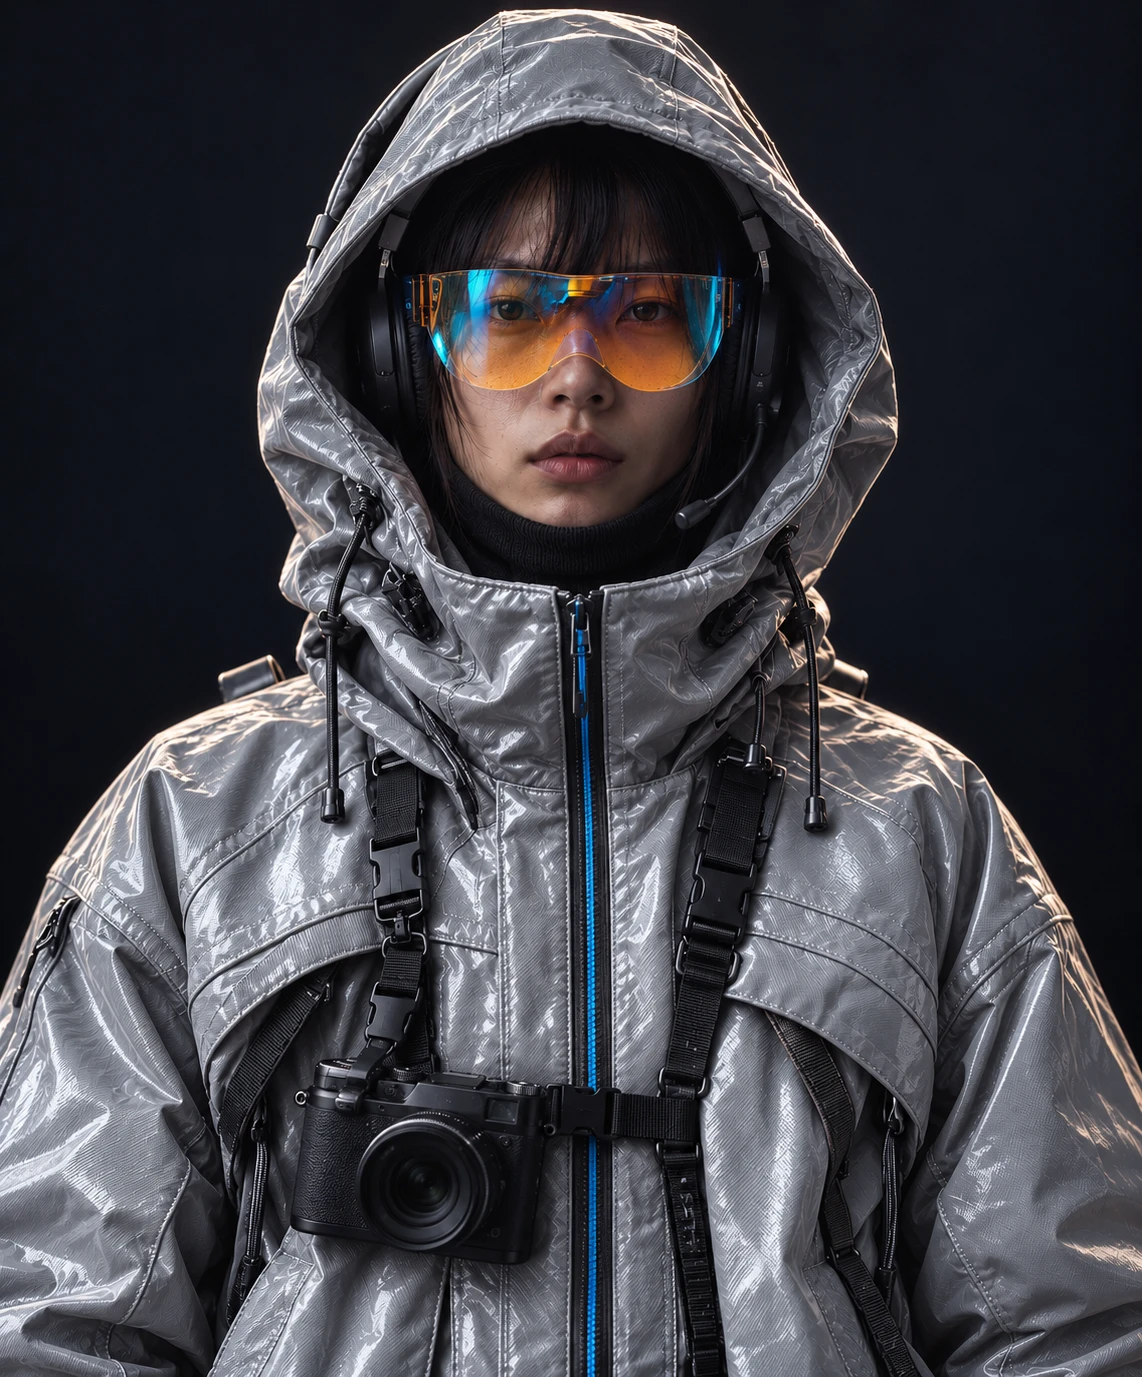
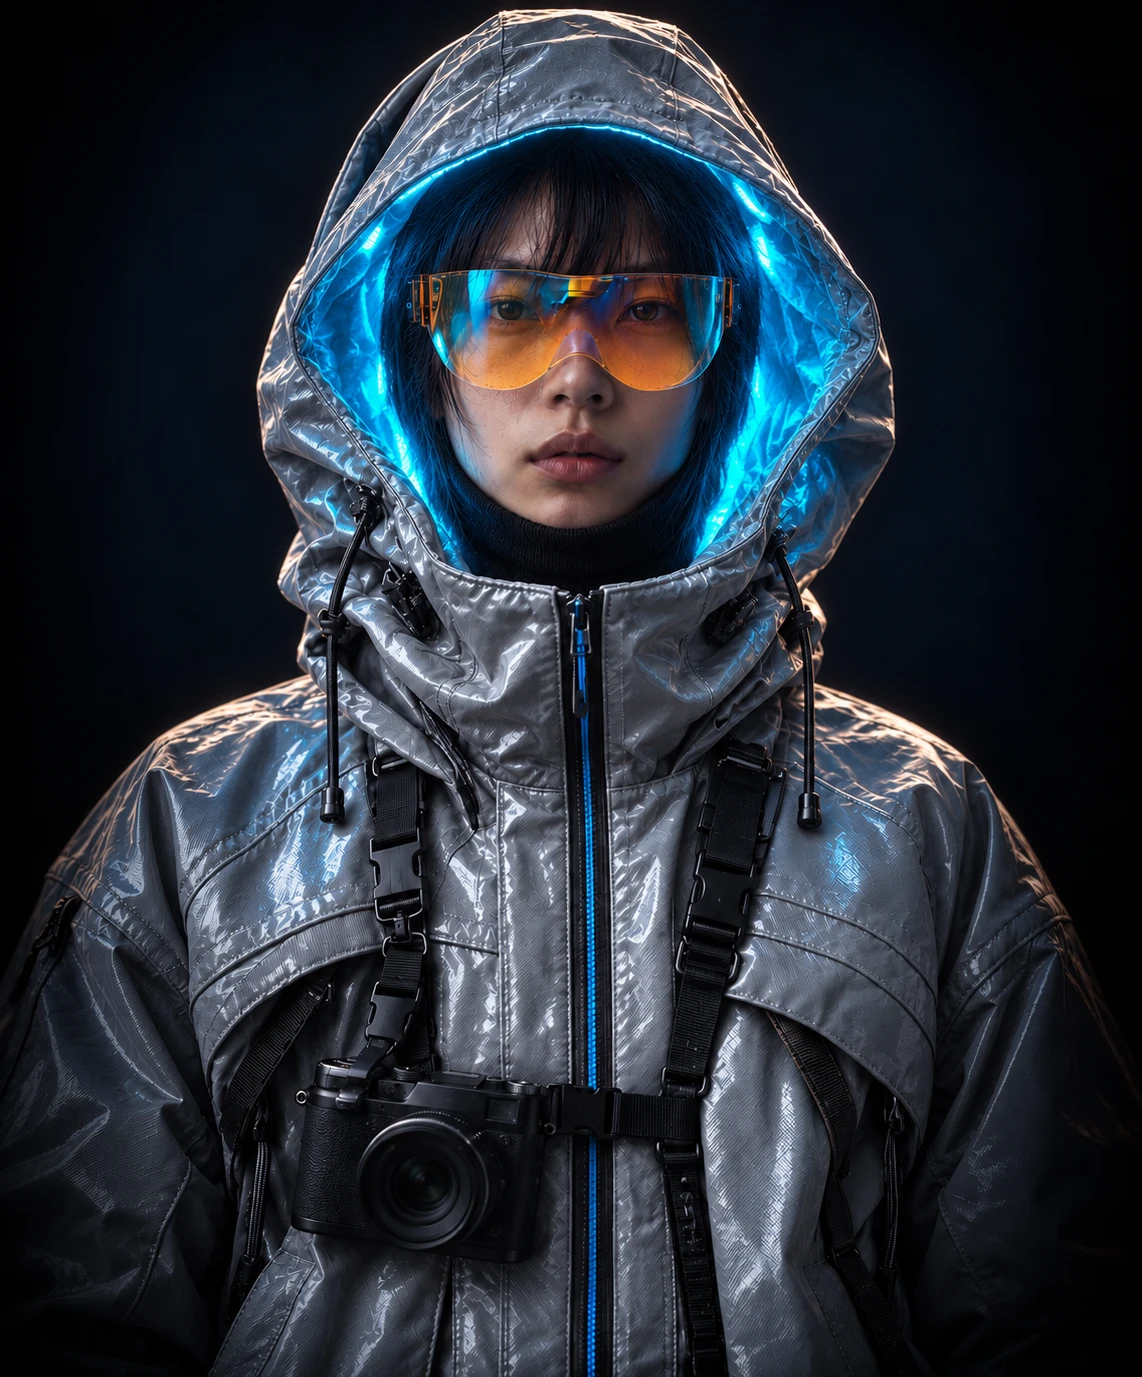
페르소나 사진 교체와 배경색을 더 어둡게 변경
- portrait.webp: 사용자가 준 새 버전(후드 안쪽 파란 글로우, 검정 배경)으로 교체. 홈 히어로·About 공용
- 배경 토큰을 남색 기가 도는 #15151c에서 무채색에 가까운 #0b0b0d로, surface·raise·line·dim도 함께 낮춤
- 히어로 3D 배경 패널 글로우를 무채색으로, 사진 블렌딩 색(uBg)은 CSS --bg를 읽도록 해 토큰과 맞춤
- theme-color, AGENTS.md 갱신

Claude-Session: https://claude.ai/code/session_011BjYSQjeAVnjnST8EMR3HN

diff --git a/src/scripts/hero-scene.ts b/src/scripts/hero-scene.ts
@@ -206,14 +206,14 @@ export async function mountHero(root: HTMLElement, src: string) {
   const camera = new THREE.PerspectiveCamera(35, 1, 0.1, 100);
   camera.position.set(0, 0, 8.5);
 
-  // 배경 그라데이션 패널
+  // 배경 그라데이션 패널: 바깥은 --bg(#0b0b0d)와 같은 값, 가운데만 살짝 밝은 무채색 글로우
   const back = new THREE.Mesh(
     new THREE.PlaneGeometry(40, 40),
     new THREE.ShaderMaterial({
       vertexShader: vertex,
       fragmentShader: `varying vec2 vUv; void main(){
         float d = distance(vUv, vec2(0.42, 0.47));
-        vec3 c = mix(vec3(0.12,0.12,0.19), vec3(0.082,0.082,0.11), smoothstep(0.0, 0.14, d));
+        vec3 c = mix(vec3(0.075,0.075,0.085), vec3(0.043,0.043,0.051), smoothstep(0.0, 0.14, d));
         gl_FragColor = vec4(c, 1.0); }`,
     }),
   );
@@ -231,7 +231,8 @@ export async function mountHero(root: HTMLElement, src: string) {
     uPrev: { value: BLANK },
     uSweep: { value: reduced ? 1 : 0 },
     uFade: { value: 1 },
-    uBg: { value: new THREE.Color(0x15151c) },
+    // 사진 배경을 사이트 배경(--bg)에 녹임
+    uBg: { value: new THREE.Color(getComputedStyle(document.documentElement).getPropertyValue('--bg').trim() || '#0b0b0d') },
   };
   const persona = new THREE.Group();
   const photo = new THREE.Mesh(

diff --git a/src/styles/global.css b/src/styles/global.css
@@ -1,12 +1,12 @@
 /* 다크 고정 · HUD 톤 (레퍼런스: chronothreads.webflow.io) */
 :root {
-  --bg: #15151c;
-  --surface: #1c1c25;
-  --raise: #23232e;
+  --bg: #0b0b0d;
+  --surface: #131316;
+  --raise: #1a1a1e;
   --fg: #f0ebe5;
   --muted: #8d8992;
-  --dim: #575558;
-  --line: #2c2c37;
+  --dim: #55545a;
+  --line: #242429;
   --accent: #2895f7;
   --max: 1200px;
   --narrow: 720px;

diff --git a/AGENTS.md b/AGENTS.md
@@ -28,7 +28,7 @@
   - 성별 드러나는 요소는 깊은 후드, 눈썹 덮는 앞머리, 넥 게이터·하이넥, 후드 위 헤드셋으로 가림. 20대 후반 성숙한 인상, 네온 최소
   - 요소: 차콜 테크웨어 후디(지퍼에 얇은 블루 라인), 헤드셋+마이크, 가슴 스트랩 미러리스 카메라, (사이트에서) 홀로그램 UI 패널
   - 이미지는 **사용자가 직접 생성해서 업로드** (Midjourney 등). 3D 변환용은 정면 A포즈·단색 배경·전신, 가능하면 측면·후면도
-  - ✅ 1차 확정 이미지: `src/assets/persona/portrait.webp` (상반신, 1142×1377, 은색 후디·오렌지 바이저·헤드셋·카메라). 3D 모델은 아직 없음 → 사진을 셰이더 평면으로 사용 중
+  - ✅ 확정 이미지: `src/assets/persona/portrait.webp` (상반신, 1142×1377, 은색 후디·오렌지 바이저·후드 안쪽 파란 글로우·카메라, 검정 배경). 2026-10-22 사용자가 준 새 버전으로 교체 (홈 히어로·About 공용). 3D 모델은 아직 없음 → 사진을 셰이더 평면으로 사용 중
   - 홀로그램 패널은 사진에 포함하지 않고 Three.js 캔버스로 따로 그려 페르소나 왼쪽 앞에 띄움
   - 실사 프롬프트 핵심(재생성 시 참고): `ultra photorealistic studio portrait photograph of an androgynous adult person in their late 20s, gender-ambiguous face, neutral calm expression, looking directly into the camera, perfectly frontal symmetrical pose, oversized techwear hoodie with the hood up, long bangs covering the eyebrows, neck gaiter up to the jawline, over-ear headset over the hood, mirrorless camera on a chest strap, real skin texture with visible pores, Hasselblad 90mm, dark #15151c backdrop` / 네거티브: `cartoon, anime, 3d render, cgi, doll, toy, plastic skin, childish, teenager, heavy neon, overtly masculine or feminine features`
 - 사용자가 정한 글 구분 원칙: **글은 항목별로, 형식은 '케이스 스터디' 또는 '노트(아카이브)'로 구분해서 적절히 배치.**
@@ -120,7 +120,8 @@ src/
 방향: **다크 고정 · HUD · 3D 히어로** (chronothreads) + **리스트형 목록** (huddling).
 
 - 토큰 (`src/styles/global.css` `:root`, 다크만 있음)
-  - `--bg #15151c` `--surface #1c1c25` `--raise #23232e` `--fg #f0ebe5` `--muted #8d8992` `--dim #575558` `--line #2c2c37` `--accent #2895f7`
+  - `--bg #0b0b0d` `--surface #131316` `--raise #1a1a1e` `--fg #f0ebe5` `--muted #8d8992` `--dim #55545a` `--line #242429` `--accent #2895f7`
+  - (2026-10-22) 배경을 남색 기가 도는 `#15151c`에서 무채색에 가까운 `#0b0b0d`로 더 어둡게 바꿈. 히어로 3D 배경 패널(`hero-scene.ts` back 셰이더)과 사진 블렌딩 `uBg`(CSS `--bg`를 읽음), `theme-color`도 함께 맞춤
   - 폰트: `--font` Pretendard / `--mono` JetBrains Mono / `--pixel` Silkscreen. HUD 라벨은 `.mono` (대문자 12px)
   - 레이아웃: `--max 1200px`, `--narrow 720px`, `--radius 4px`, `--gutter clamp(16px,4vw,40px)`, `--header 60px`
   - 항목 색: 요소에 `style="--h: <hue>"` → 배지 배경 `oklch(26% 0.045 h)`, 글자 `oklch(80% 0.12 h)`
@@ -139,6 +140,7 @@ src/
 - ⚠ 페르소나는 **사진(2D) 기반**. 진짜 3D(회전)를 원하면 전신 정면/측면/후면 이미지 → Tripo로 .glb 변환 필요
 - ⚠ 모바일 visual 모드에서 RGB 분리(무지개 테두리)가 조금 보임 — 사용자 의견 받으면 모바일에서 끌지 결정
 - ⚠ 모든 글이 **샘플**: `work/sample-case-study.md`(+`cover.svg`), `archive/sample-tip.md`, `sample-ai-prompt.md`, `sample-tool.md`, `hello-archive.md`
+- 🔄 페르소나 사진 교체 + 배경색 더 어둡게(`#0b0b0d`) — 브랜치 `claude/admiring-ride-q2c1zu`, PR 미생성, 사용자 확인 대기
 - 🔄 페이지 전환 **시안(아티팩트) v2** — https://claude.ai/artifact/VZ7TbHcVrzFCRbs21FC8ck (원본 `mockups/page-transition.html`, 사이트 빌드와 무관). v2에서 A 느리게·B 작은 블랙 픽셀·C 쉐입 정리 (상세는 PLAN.md). A 스캔 와이프 / B 픽셀 디졸브 / C 레티클 포커스 중 **사용자 선택 대기**. 코드는 아직 안 짬
   - 작업 브랜치: `claude/admiring-ride-q2c1zu` (`claude/clever-franklin-ubf6l1` 위에 이어서 커밋, PR 미생성)
 - 🔄 About 다크 HUD 리뉴얼 + 글자 스크램블 hover — 브랜치 `claude/clever-franklin-ubf6l1`에 저장(push)만 함, **PR은 아직 안 만듦** (사용자 지시). 다음 작업도 이 브랜치에서 이어서
